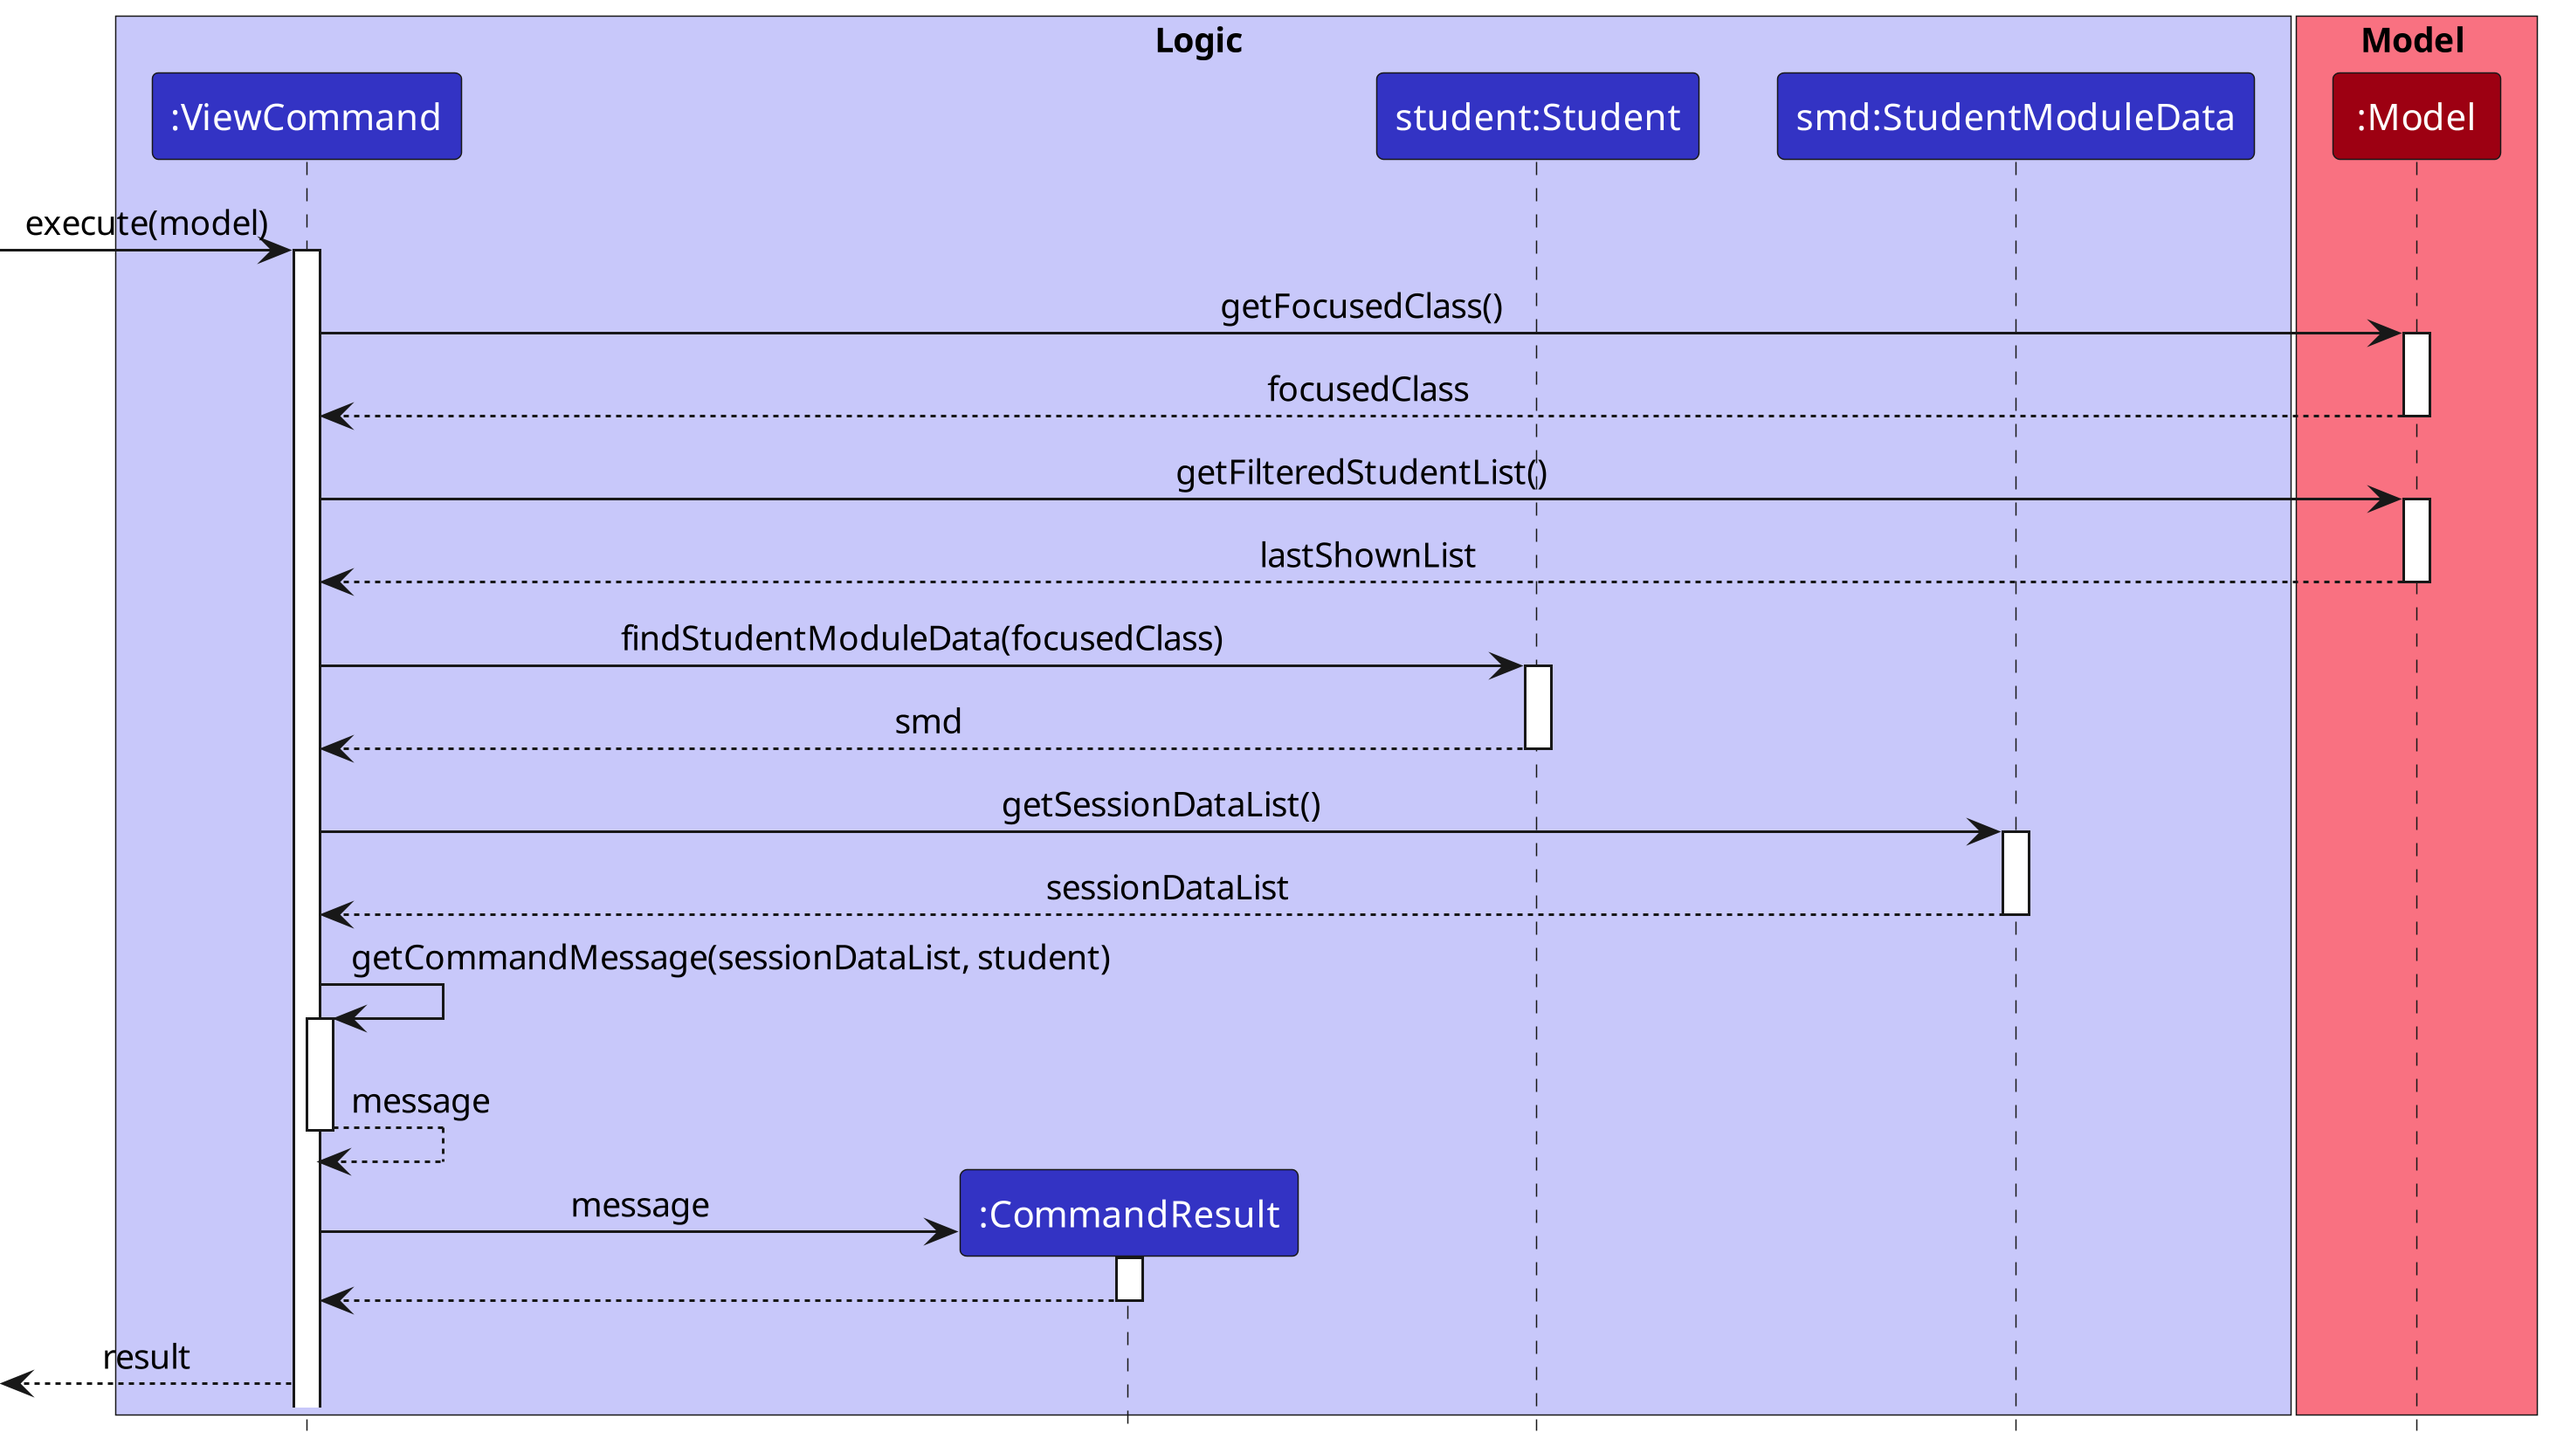
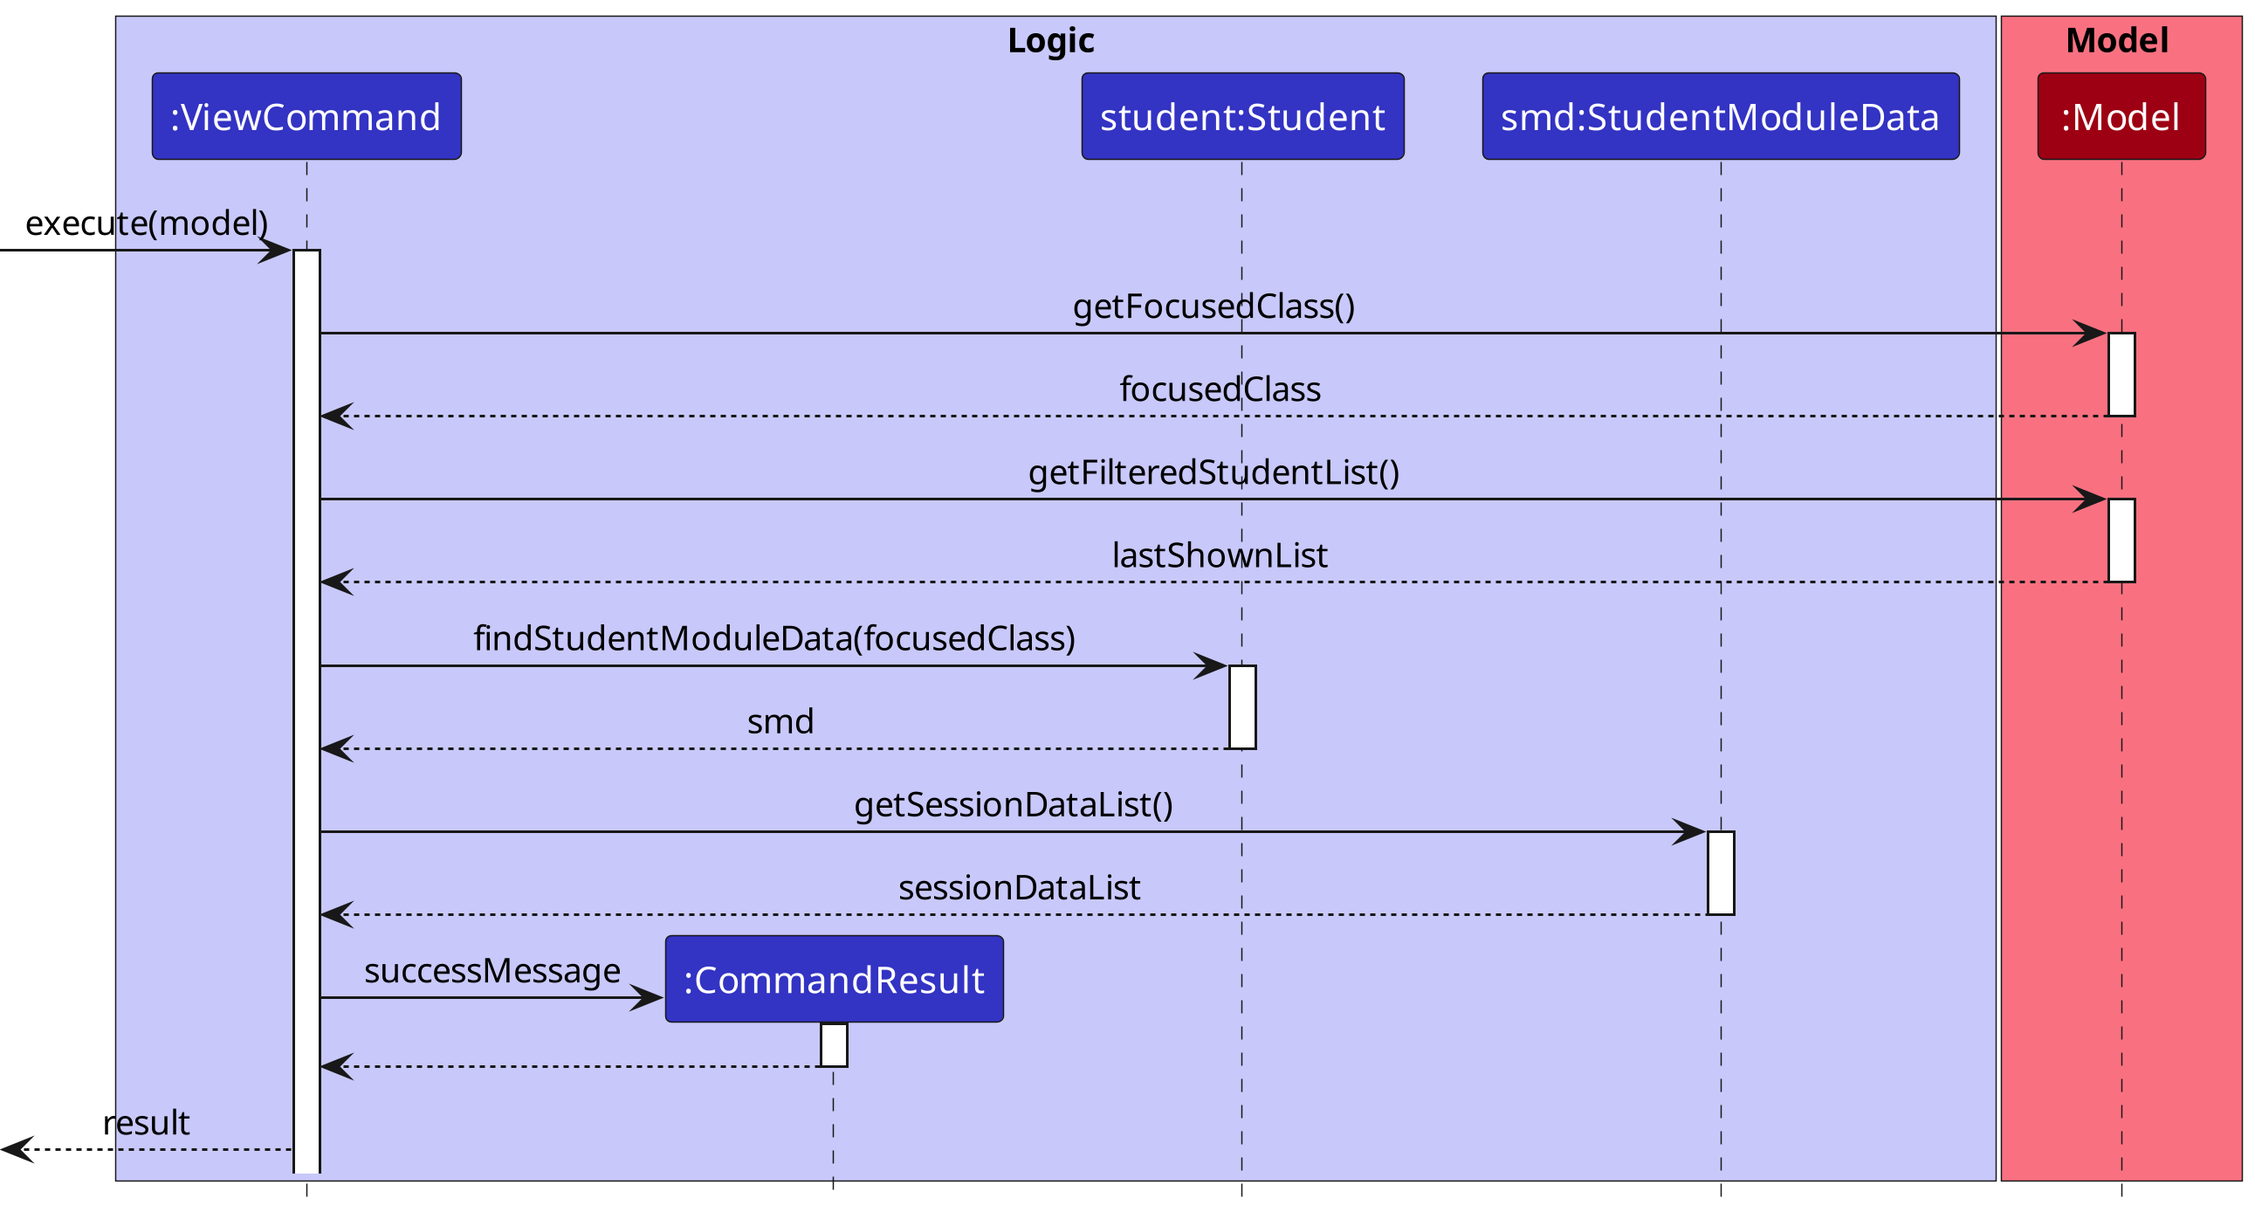
DG: add parameter to CommandResult call

diff --git a/src/main/java/seedu/taassist/logic/commands/ViewCommand.java b/src/main/java/seedu/taassist/logic/commands/ViewCommand.java
@@ -63,10 +63,10 @@ public class ViewCommand extends Command {
                 .orElseThrow(AssertionError::new)
                 .getSessionDataList();
 
-        return new CommandResult(getCommandMessage(sessionDataList, student));
+        return new CommandResult(getSuccessMessage(sessionDataList, student));
     }
 
-    public static String getCommandMessage(List<SessionData> sessionDataList, Student student) {
+    public static String getSuccessMessage(List<SessionData> sessionDataList, Student student) {
         if (sessionDataList.isEmpty()) {
             return String.format(MESSAGE_EMPTY_GRADES_LIST, student.getName());
         }

diff --git a/src/main/java/seedu/taassist/logic/commands/GradeCommand.java b/src/main/java/seedu/taassist/logic/commands/GradeCommand.java
@@ -78,8 +78,7 @@ public class GradeCommand extends Command {
 
         studentsToGrade.forEach(s -> model.setStudent(s, s.updateGrade(focusedClass, existingSession, grade)));
 
-        String message = getSuccessMessage(studentsToGrade, existingSession, grade);
-        return new CommandResult(message);
+        return new CommandResult(getSuccessMessage(studentsToGrade, existingSession, grade));
     }
 
     public static String getSuccessMessage(List<Student> students, Session session, Double grade) {
